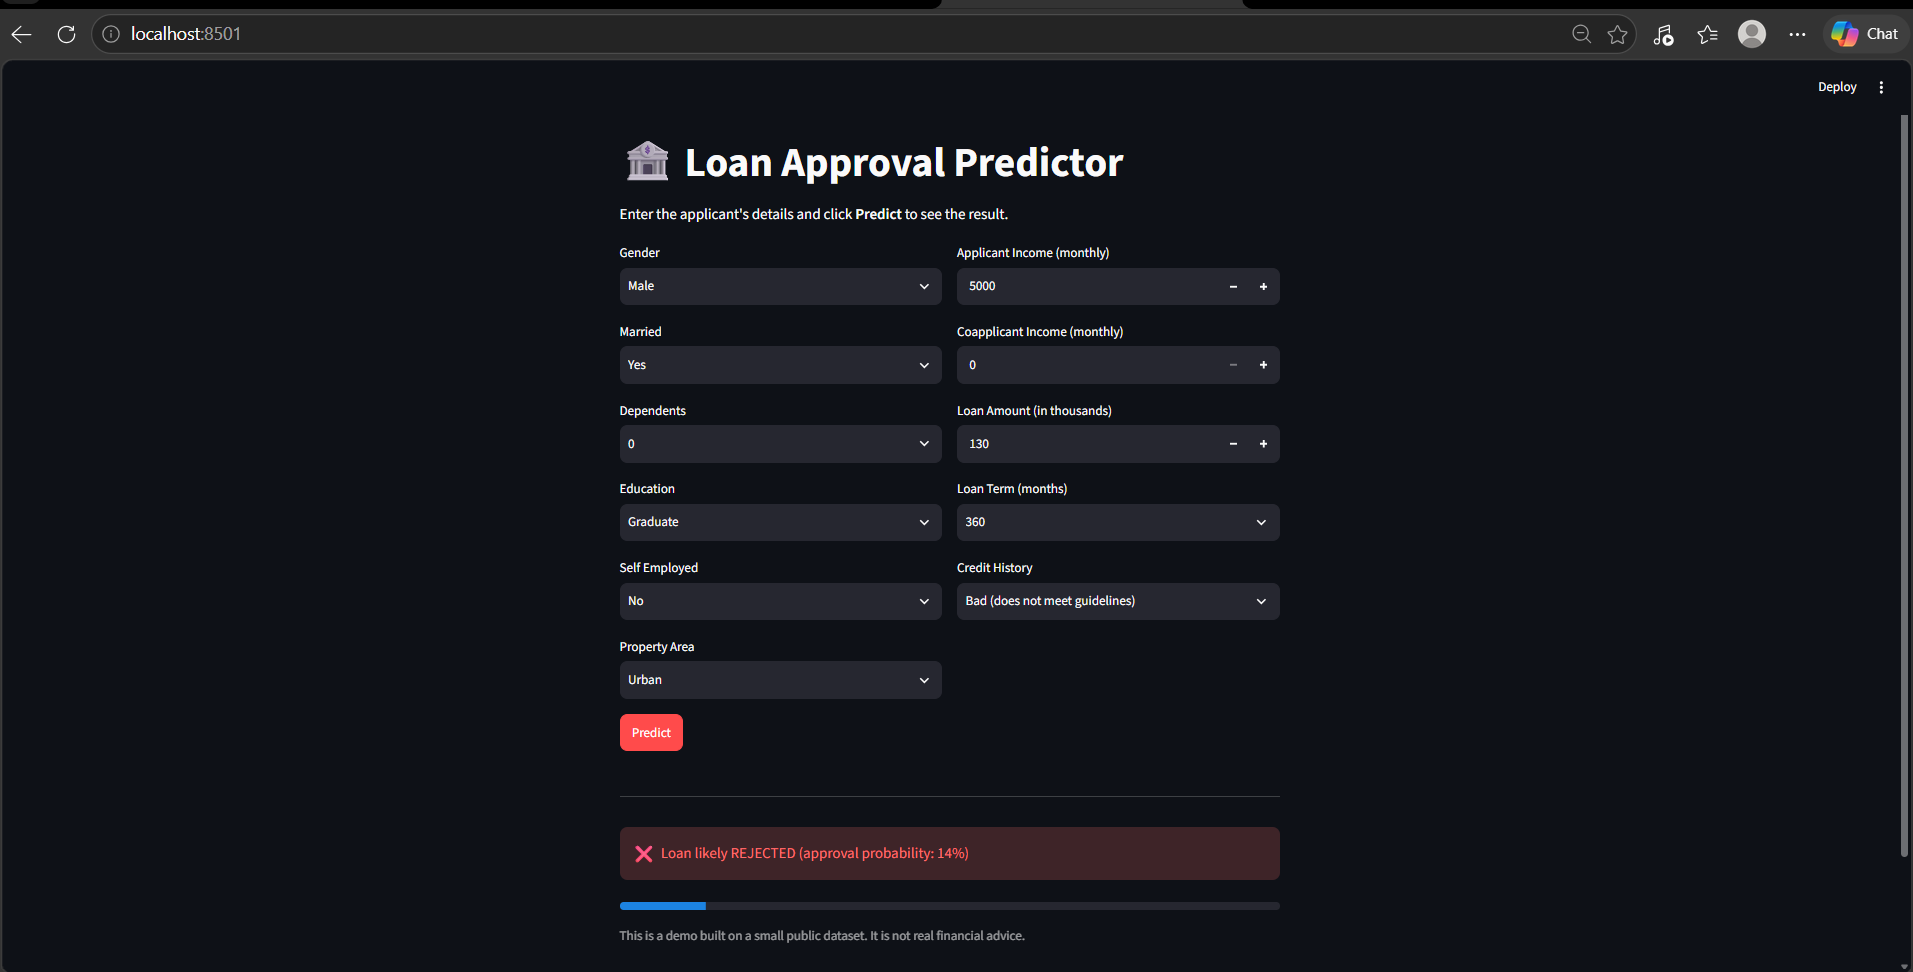
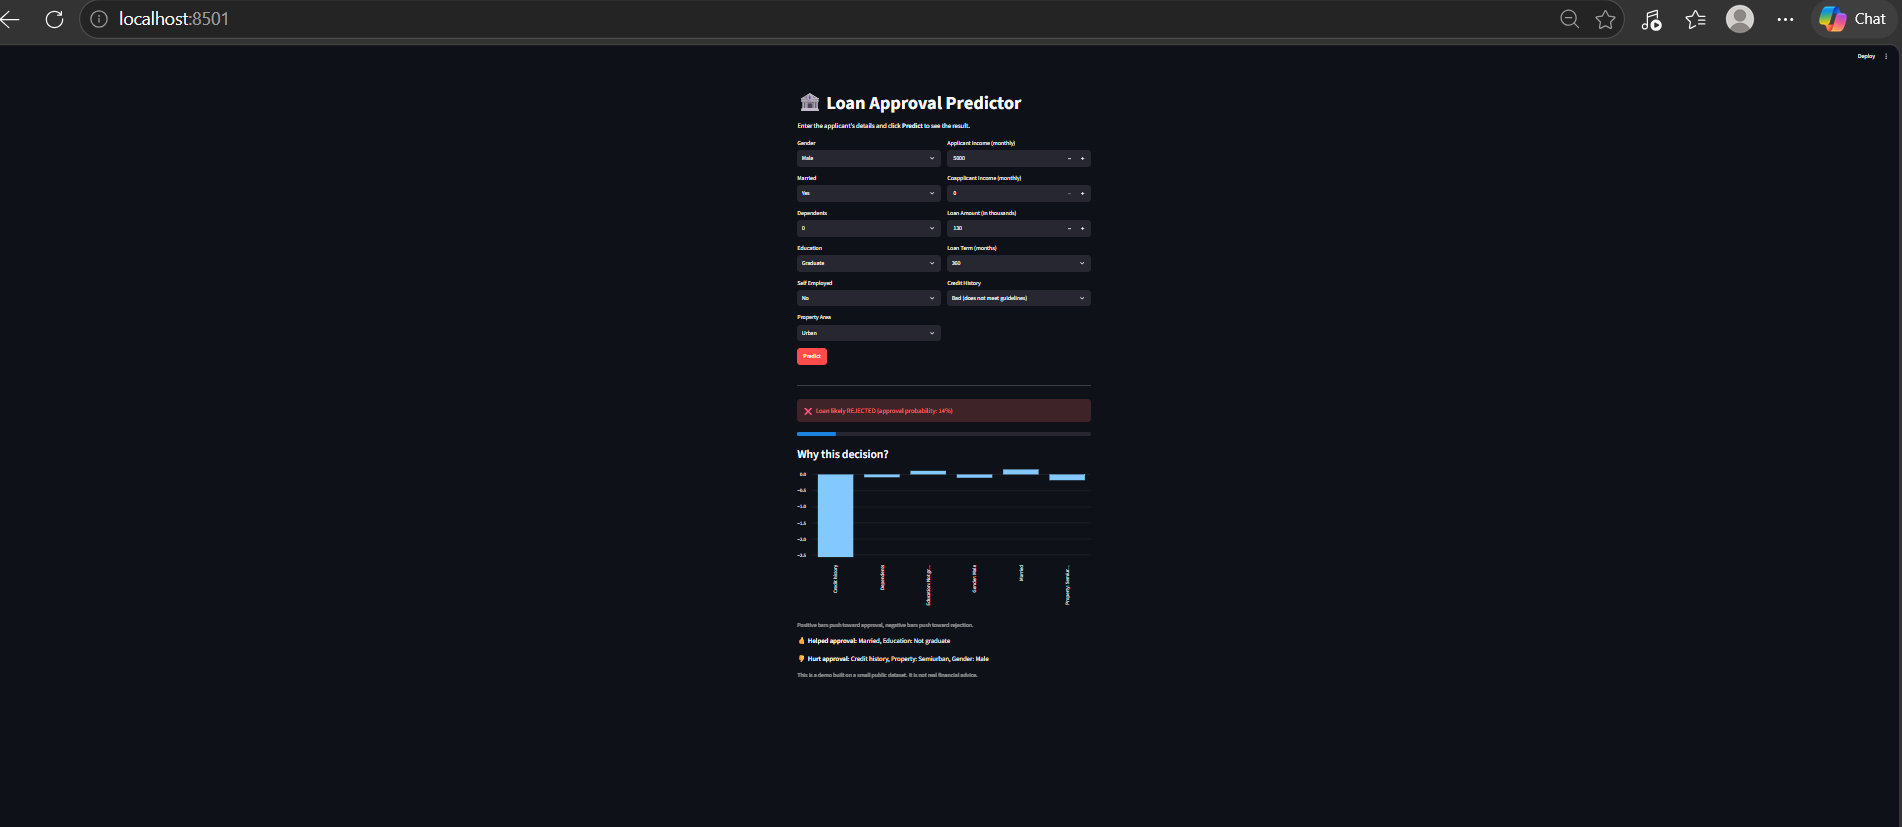
Add SHAP explanations

diff --git a/app.py b/app.py
@@ -1,19 +1,46 @@
 import joblib
 import pandas as pd
+import shap
 import streamlit as st
 
 st.set_page_config(page_title="Loan Approval Predictor", page_icon="🏦")
+
+# Friendly names for the model's columns
+NICE_NAMES = {
+    "Dependents": "Dependents",
+    "ApplicantIncome": "Applicant income",
+    "CoapplicantIncome": "Coapplicant income",
+    "LoanAmount": "Loan amount",
+    "Loan_Amount_Term": "Loan term",
+    "Credit_History": "Credit history",
+    "Gender_Male": "Gender: Male",
+    "Married_Yes": "Married",
+    "Education_Not Graduate": "Education: Not graduate",
+    "Self_Employed_Yes": "Self employed",
+    "Property_Area_Semiurban": "Property: Semiurban",
+    "Property_Area_Urban": "Property: Urban",
+}
 
 
 @st.cache_resource
 def load_model():
     model = joblib.load("models/model.pkl")
     columns = joblib.load("models/columns.pkl")
-    return model, columns
+    background = joblib.load("models/background.pkl")
+    explainer = shap.Explainer(model, background)
+    return model, columns, explainer
+
+
+def get_contributions(explainer, encoded):
+    """Return a Series: how much each feature pushed the decision (+ = toward approval)."""
+    values = explainer(encoded).values
+    if values.ndim == 3:  # some models return one set of values per class
+        values = values[:, :, 1]
+    return pd.Series(values[0], index=encoded.columns)
 
 
 try:
-    model, columns = load_model()
+    model, columns, explainer = load_model()
 except FileNotFoundError:
     st.error("Model files not found. Run `python train.py` first.")
     st.stop()
@@ -62,7 +89,7 @@ if st.button("Predict", type="primary"):
     )
 
     encoded = pd.get_dummies(raw)
-    encoded = encoded.reindex(columns=columns, fill_value=0)
+    encoded = encoded.reindex(columns=columns, fill_value=0).astype(float)
 
     prediction = model.predict(encoded)[0]
     probability = model.predict_proba(encoded)[0][1]
@@ -72,6 +99,22 @@ if st.button("Predict", type="primary"):
         st.success(f"✅ Loan likely APPROVED  (approval probability: {probability:.0%})")
     else:
         st.error(f"❌ Loan likely REJECTED  (approval probability: {probability:.0%})")
-
     st.progress(float(probability))
+
+    # ---- Why did the model decide this? (SHAP) ----
+    st.subheader("Why this decision?")
+    contrib = get_contributions(explainer, encoded)
+    contrib.index = [NICE_NAMES.get(c, c) for c in contrib.index]
+    top = contrib.reindex(contrib.abs().sort_values(ascending=False).index).head(6)
+
+    st.bar_chart(top)
+    st.caption("Positive bars push toward approval, negative bars push toward rejection.")
+
+    up = top[top > 0].index.tolist()[:3]
+    down = top[top < 0].index.tolist()[:3]
+    if up:
+        st.write("👍 **Helped approval:** " + ", ".join(up))
+    if down:
+        st.write("👎 **Hurt approval:** " + ", ".join(down))
+
     st.caption("This is a demo built on a small public dataset. It is not real financial advice.")

diff --git a/train.py b/train.py
@@ -97,4 +97,6 @@ results_df.to_csv("reports/model_comparison.csv", index=False)
 best_name = results_df.sort_values("F1", ascending=False).iloc[0]["Model"]
 joblib.dump(models[best_name], "models/model.pkl")
 joblib.dump(list(X.columns), "models/columns.pkl")
+# Background sample used by SHAP in the app to explain predictions
+joblib.dump(X_train.astype(float).sample(100, random_state=42), "models/background.pkl")
 print(f"\nBest model: {best_name} (saved to models/model.pkl)")
